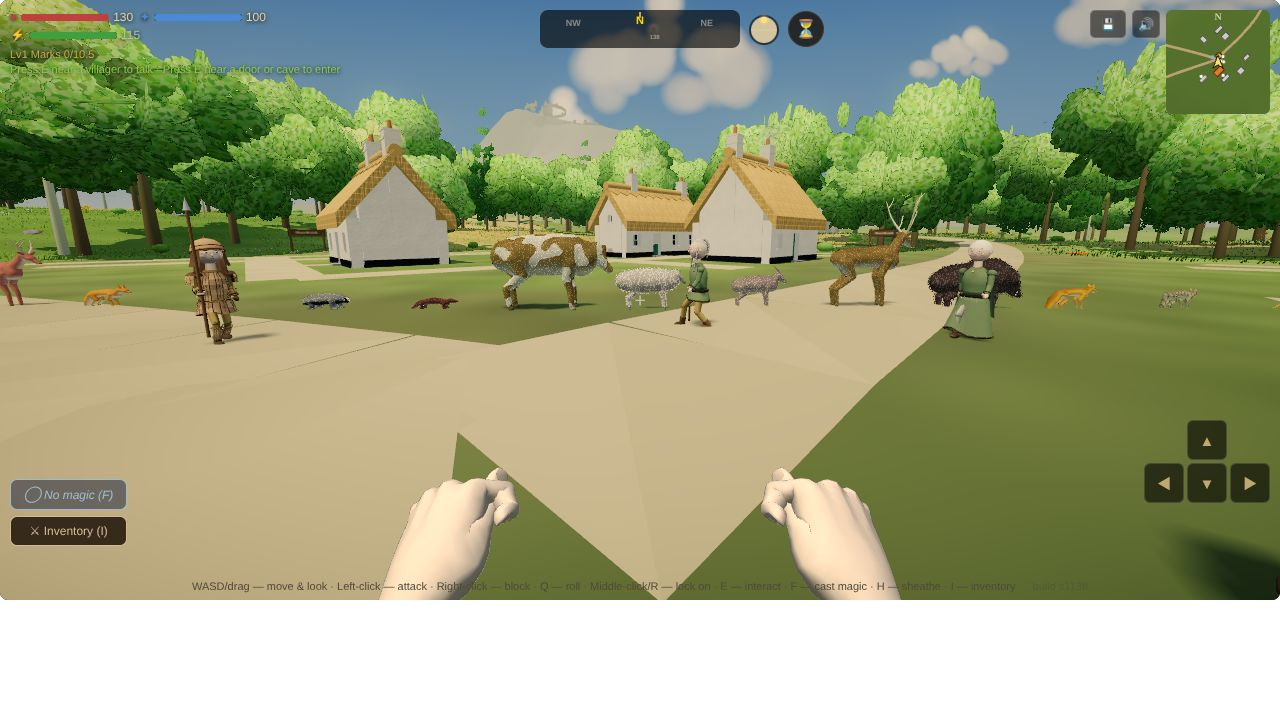
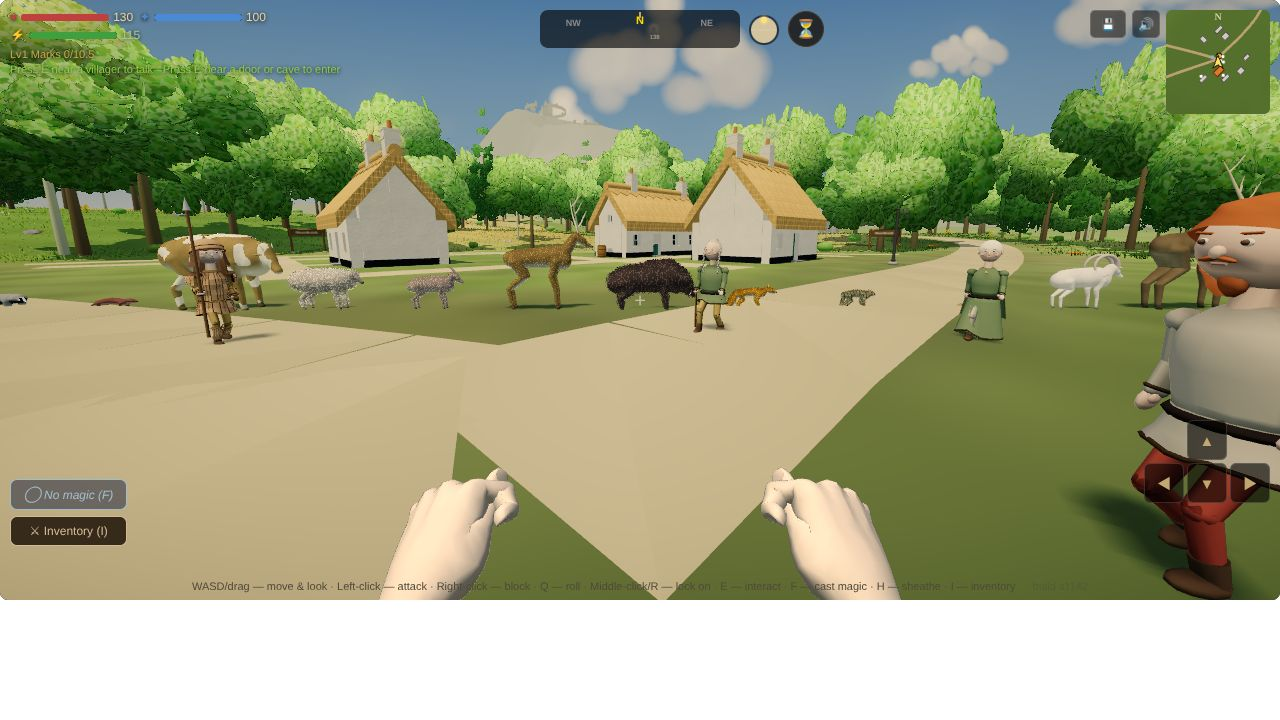
Bodies: Session 1739 — the Mark's own on four legs have bodies in the game
Icehorn, Ironpine Elk, Craghorn Ram, Stormlynx, Glacial Marmot and Snowleap Hare: wild
WOLF_KINDS dressed in the kit's MARK plans at their own hips. f4animals (19) and inspector
green; catalogue +6 entries.

Claude-Session: https://claude.ai/code/session_019eFMMoLi6YaA85dpmn3a9F

diff --git a/js/34-creatures.js b/js/34-creatures.js
@@ -42,6 +42,14 @@ const WOLF_KINDS={
   'Redspine Fox':{coat:0xa84d1a,saddle:0x5c2a10,belly:0xeee4d0,eye:0x2a1a08,ruff:.85,ears:1.2,muzzle:1.1,lean:.8,bulk:.92,neck:.1,world:.9,wild:true},
   'Hollowcat': {coat:0x806b52,saddle:0x4e4030,belly:0xd0c4ac,eye:0x9a8a20,ruff:.6,ears:1.1,muzzle:.6,lean:.85,bulk:.9,neck:.06,world:.81,wild:true},
   'Greenward Stoat':{coat:0x805733,saddle:0x5c3c22,belly:0xece2c8,eye:0x0f0a08,ruff:.5,ears:.6,muzzle:.8,lean:.75,bulk:.85,neck:.05,world:.165,wild:true},
+  // Session 1739 — the Mark's own on four legs (L3, OG-031; the kit's MARK since Session 847), wild: the Icehorn, the Ironpine Elk and the
+  // Craghorn Ram on the deer's long legs, the Stormlynx, the Glacial Marmot and the Snowleap Hare on the wolf's
+  'Icehorn':   {coat:0xdbd6cc,saddle:0xbdb8ad,belly:0xe6e3db,eye:0xbf9933,horse:true,legK:1.8,legs:{fore:{root:[-.03,.03],a:[-.22,-.04],b:[-.22,.02],c:[-.23,.01]},hind:{root:[-.02,-.02],a:[-.2,.08],b:[-.2,-.1],c:[-.26,.01]}},hipY:.70,bulk:.9,eyePos:[.046,.02,.03],world:1.0,wild:true},
+  'Ironpine Elk':{coat:0x4d3826,saddle:0x332417,belly:0x806b52,eye:0x0f0a08,horse:true,legK:1.8,legs:{fore:{root:[-.03,.03],a:[-.22,-.04],b:[-.22,.02],c:[-.23,.01]},hind:{root:[-.02,-.02],a:[-.2,.08],b:[-.2,-.1],c:[-.26,.01]}},hipY:.70,bulk:1.0,eyePos:[.048,.02,.03],world:2.08,wild:true},
+  'Craghorn Ram':{coat:0x857057,saddle:0x66543d,belly:0xd6ccb8,eye:0x997f33,horse:true,legK:1.8,legs:{fore:{root:[-.03,.03],a:[-.22,-.04],b:[-.22,.02],c:[-.23,.01]},hind:{root:[-.02,-.02],a:[-.2,.08],b:[-.2,-.1],c:[-.26,.01]}},hipY:.70,bulk:1.1,eyePos:[.046,.02,.03],world:.855,wild:true},
+  'Stormlynx': {coat:0xa8a399,saddle:0x6b6661,belly:0xe6e0d6,eye:0xbfcc40,ruff:.7,ears:1.3,muzzle:.6,lean:.85,bulk:.95,neck:.06,world:1.0,wild:true},
+  'Glacial Marmot':{coat:0x8f7a61,saddle:0x6b5945,belly:0xccb894,eye:0x0f0a08,ruff:.6,ears:.5,muzzle:.7,bulk:1.25,neck:.05,world:.32,wild:true},
+  'Snowleap Hare':{coat:0xedede8,saddle:0xd6d6d1,belly:0xfafaf7,eye:0x1f120a,ruff:.6,ears:1.4,muzzle:.8,lean:.85,bulk:.95,neck:.05,world:.66,wild:true},
   // the world's dragon (S177): the wolf's legs and gait under a long neck, a long tail, horns and two wings of its own
   'Dragon':    {coat:0x5a2a1a,saddle:0x3a160c,belly:0xa87a48,eye:0xff8020,dragon:true,bulk:1.28,neck:-.15,eyePos:[.05,.04,.104],world:4.5} // S524 — world: the scale every dragon is built at in play, and the inspector shows it so; S546 — 4.5, about twice a man's height (Michael's B on #153, was 2.88)
 };
@@ -919,7 +927,7 @@ const HC_KINDS={'Wolf':{plan:'wolf'},'Snow Wolf':{plan:'wolf',own:true},'Dire Wo
   'Golem':{plan:'golem',own:true,person:true,merge:true,ik:true,tall:true,glow:[.42,.69,1],glowR:.02},
   'Gargoyle':{plan:'gargoyle',own:true,person:true,merge:true,ik:true,glow:[1,.31,.13],glowR:.032,glowAt:{f:.8,up:.55,out:.5},garg:true},
   'Wraith':{plan:'wraith',own:true,person:true,legless:true,rest:HC_WRAITH_REST},'Phantom':{plan:'phantom',own:true,person:true,legless:true,rest:HC_WRAITH_REST},
-  'Deer':{plan:'deer',ik:true},'Hind':{plan:'deer',own:true,ik:true,bare:true},'Red Fox':{plan:'redfox'},'Brown Hare':{plan:'brownhare'},'Badger':{plan:'badger'},'Otter':{plan:'otter'},'Cow':{plan:'cow',ik:true},'Sheep':{plan:'sheep',ik:true},'Goat':{plan:'goat',ik:true},'Elderstag':{plan:'stag',ik:true},'Gatefen Boar':{plan:'gatefenboar'},'Redspine Fox':{plan:'redspinefox'},'Hollowcat':{plan:'hollowcat'},'Greenward Stoat':{plan:'stoat'},
+  'Deer':{plan:'deer',ik:true},'Hind':{plan:'deer',own:true,ik:true,bare:true},'Red Fox':{plan:'redfox'},'Brown Hare':{plan:'brownhare'},'Badger':{plan:'badger'},'Otter':{plan:'otter'},'Cow':{plan:'cow',ik:true},'Sheep':{plan:'sheep',ik:true},'Goat':{plan:'goat',ik:true},'Elderstag':{plan:'stag',ik:true},'Gatefen Boar':{plan:'gatefenboar'},'Redspine Fox':{plan:'redspinefox'},'Hollowcat':{plan:'hollowcat'},'Greenward Stoat':{plan:'stoat'},'Icehorn':{plan:'icehorn',ik:true},'Ironpine Elk':{plan:'ironpineelk',ik:true},'Craghorn Ram':{plan:'craghornram',ik:true},'Stormlynx':{plan:'stormlynx'},'Glacial Marmot':{plan:'glacialmarmot'},'Snowleap Hare':{plan:'snowhare'},
   'Shark':{plan:'reefshark',fish:true},'Whale':{plan:'stormwhale',fish:true},'Dolphin':{plan:'stormswift',fish:true},'Gull':{plan:'gull',fish:true,own:true,cell:.014},'Raven':{plan:'raven',fish:true,own:true,cell:.014},'Crow':{plan:'crow',fish:true,own:true,cell:.012},'Trout':{plan:'trout',fish:true,own:true,cell:.014},'River Pike':{plan:'riverpike',fish:true,own:true,cell:.02},'Mire Snake':{plan:'miresnake',fish:true,own:true,cell:.016},'Lantern Beetle':{plan:'lanternbeetle',fish:true,own:true,cell:.03},'Stonecrawler':{plan:'stonecrawler',fish:true,own:true,cell:.01},'Marsh Frog':{plan:'marshfrog',fish:true,own:true,cell:.012},'Hen':{plan:'hen',fish:true,own:true,cell:.012},'Great Heron':{plan:'heron',fish:true,own:true,cell:.016},'Crag Hawk':{plan:'craghawk',fish:true,own:true,cell:.014},'Capercaillie':{plan:'capercaillie',fish:true,own:true,cell:.016},'Slime':{plan:'slime',fish:true},'Fire Elemental':{plan:'fireelemental',fish:true}};
 // the driver's joints and the kit's bones they move, parents first (the kit's front legs hang on spine3, the hind on spine0)
 const HC_MAP=[['hips','spine0'],['spine','spine1'],['neck','neck0'],['head','head'],['jaw','jaw'],['tail1','tail0'],['tail2','tail1'],['tail3','tail2'],

diff --git a/docs/backlog.md b/docs/backlog.md
@@ -552,7 +552,7 @@ Michael marked all 96 images of the intake on the review page: 63 KEEP and 33 NO
 ### L3. Wildlife (the biggest gap: no peaceful land animals today)
 - **The common set first** (look builder, `34-creatures.js`; OG-084): wolf, red fox, brown hare, raven, crow, boar, deer, badger, otter, trout, built once and recoloured by island. Peaceful by default; one name per animal. **Prototyped as plans in the kit, Session 843** (bodies builder; `creatures.js` `COMMON`, `creatures-common.jpg`): all ten build and walk; owed: the game (after F4, behind `?look=new`), ~~the wolf~~ in it since Session 1202 (the Wolf, the Snow Wolf, the Dire Wolf; `f4wolves`), ~~the boar~~ since Session 1251 (the Boar foe's body, and the Mark's bear in the Cave Bear's brown as the Cave Bear's; `f4beasts`), ~~the Ash Hound~~ since Session 1274 (the kit's own `ashhound`: the wolf leaner and ash-grey, eyes lit, the embers a broken seam down the back; `f4beasts`, `f4wolves`), the peaceful ones still owed (they need a spawn, the systems builder's; **asked, Session 1687**, DECISION #984: where, how many, what they do on seeing you, and whether you can hunt them; A, present and huntable, recommended); Michael's A, present and huntable); ~~their bodies in the game~~ — done, Session 1704 (the Deer, the Red Fox, the Brown Hare, the Badger and the Otter: `buildAnimal(name,key)` in `34-creatures.js`, the kit's own plan each at its size in metres, keyed `wild:<key>`; `f4animals`; half the deer hinds by key, Session 1706), so the spawn is the systems builder's to call; ~~the spawn~~ — done, Session 1707 (`tickWildSpawn` in `88-world-ticks.js`: a chunk within 150 m rolls one group or none by its id and biome, off pads and roads; `tickWildOne` in `42-zone-enemies.js`: they graze, wander and run 40 m from your sight or sound; one blow kills, a deer 2 to 4 meat, a hare 1; `wildlife`); ~~the raven and the crow~~ — done, Sessions 1710 (their body, `buildBird`) and 1716 (in the spawn, carried from #1008 where it was first numbered 1711: crows on fields and shore, ravens on moor and tundra; startled they take off to 8–14 m, fly 60 m and land; aloft out of a blade's reach, an arrow must meet their height; `wildlife`); ~~the trout's body~~ — done, Session 1712 (`buildAnimal('Trout', key)`, no driver, a 120-triangle stand-in and the kit's trout near, 4,156 triangles, its beat by the water its group covers; `f4animals`), its spawn in the rivers the systems builder's (**asked, Session 1718**, DECISION #1014: how you take one; A, by hand while swimming as at sea or struck from the bank, recommended); ~~the island recolourings~~ — done, Session 865 (`COATS`, a genome's `island`); ~~the badger's face stripes~~ — done, Session 845 (a face mask in the kit). ~~Their feet on a slope (`character-builder.md`, B5)~~ — done, Session 1547 (`hcGround`: each toe on the ground under it by a two-bone reach, the body lowered when a downhill leg is straight; the bear 17 → 3 cm on a 0.20 slope; `f4beasts`).
 - **The Gatelands' fifteen** (OG-009): Elderstag, Gatefen Boar (roots up forgotten paths), Redspine Fox, otter, heron, badger, Hollowcat, stoat, Crag Hawk, Marsh Frog, River Pike, Stonecrawler, Mire Snake, Lantern Beetle (glows near ruins; an ingredient); a capercaillie in place of the turkey. **All fifteen are plans in the kit, Session 846** (bodies builder; `creatures.js` `GATELANDS`, `creatures-gatelands.jpg`); owed: the game, after F4: ~~the Elderstag, the Gatefen Boar, the Redspine Fox, the Hollowcat and the Greenward Stoat~~ have bodies in it since Session 1727 (renumbered from 1722; `buildAnimal`, wild, on the wolf's driver; `f4animals`; the spawn is the systems builder's), ~~the heron, the hawk and the capercaillie~~ since Session 1723 (the birds' path, their gaits by their plans'), ~~the pike~~ since Session 1724 (the trout's path), ~~the Stonecrawler and the frog~~ since Session 1731 (the land path, the kit's own trot and hop; so all fifteen have bodies), ~~the beetle~~ since Session 1730 (the snake's path, walking on the kit's six legs, 3,652 tris), ~~the snake~~ since Session 1728 (the trout's path on land, `SWIMMER`'s `land`: lying, slithering by its group, a wave's length a cycle; ~~the kit's own `strideOf` for slither a legged one's~~ — fixed at the kit, Session 1729: a wave's length a cycle); ~~the Hollowcat sitting with its forefeet together and its tail wrapped round~~ — done, Sessions 1126 and 1130 (`sitTuck`, `sitWrap`; the Sunspire Lynx too, the Stormlynx's bobtail not). ~~The heron's straight neck (the critic's question on S1723, an ostrich?)~~ — done, Session 1738: an S at rest, the kit's neck `bends`.
-- **The Mark's fifteen** (OG-031): Icehorn (horns that moan in the wind), Ironpine Elk, Stormlynx, Skyraven, Craghorn Ram, Glacial Marmot, Stormshrike, Snowleap Hare (coat by season), Riverjaw Salmon (leaps the falls), Tundra Grouse, Icecrab; Stonefang Wolf and Frostreach Bear as reskins of the Snow Wolf and Cave Bear. **All fifteen are plans in the kit, Session 847** (bodies builder; `creatures.js` `MARK`, `creatures-mark.jpg`); owed: the game, after F4.
+- **The Mark's fifteen** (OG-031): Icehorn (horns that moan in the wind), Ironpine Elk, Stormlynx, Skyraven, Craghorn Ram, Glacial Marmot, Stormshrike, Snowleap Hare (coat by season), Riverjaw Salmon (leaps the falls), Tundra Grouse, Icecrab; Stonefang Wolf and Frostreach Bear as reskins of the Snow Wolf and Cave Bear. **All fifteen are plans in the kit, Session 847** (bodies builder; `creatures.js` `MARK`, `creatures-mark.jpg`); owed: the game, after F4: ~~the Icehorn, the Ironpine Elk, the Craghorn Ram, the Stormlynx, the Glacial Marmot and the Snowleap Hare~~ have bodies in it since Session 1739 (`buildAnimal`, wild, on the wolf's driver; `f4animals`; `docs/prototypes/f4/f4-mark.jpg`; the spawn is the systems builder's); still owed: the Skyraven, the Stormshrike and the Tundra Grouse (the birds' path), the Riverjaw Salmon (the trout's), the Frostspine Lizard and the Icecrab (the land path); the bear and the wolf are the Cave Bear's and the Dire Wolf's; the Shatterback is the sea's.
 - **Aurenne's fifteen** (OG-030): Duneskimmer, Terrace Ram, Oasis Hare, Scarlet Ibis, Mirage Fox, Cliffswift, Amber Shellcrab (harvestable), Cypress Stalker, Glasswing Moth (an ingredient), Sunbeak Vulture, Spined Gekko; the Saltspine Monitor hostile; the Dunescorpion as the Sand Scorpion's skin; the Sand Wyrm as a set piece known by its funnels. **Fourteen are plans in the kit, Session 848** (bodies builder; `creatures.js` `AURENNE`, `creatures-aurenne.jpg`); owed: the game, after F4; ~~the Glasswing Moth~~ — done, Session 864 (a moth's glass wings in the kit), so all fifteen are plans.
 - **The strange beasts** (OG-040): the Crownstag, the Mossback (a tortoise carrying a garden), the Bellthroat (its call at dusk), the Lanternfox, the Thornrunner; the Shatterhorn, the Frostmane (a pack beast), the Glasswing, the Stonejaw, the Stormplume; the Redcrest, the Sunfan, the Mineprowler, the Sailshell. Wonder without menace, mostly peaceful. A few have six legs, and that is ordinary (Michael's 9 A). **All fourteen are plans in the kit, Session 853** (bodies builder; `creatures.js` `STRANGE`, `creatures-strange.jpg`): six from Sessions 773 to 775 and eight new (the Crownstag, the Lanternfox, the Thornrunner, the Frostmane, the Glasswing, the Stonejaw, the Redcrest, the Sunfan); owed: the game, after F4.
 - **The sea** (OG-016, OG-084, OG-031): tidecrab, moray, rays, lantern jelly, flying fish, squid, seals, dolphins, octopus, turtles; the Shatterback and the maw turtle as landmarks mistaken for rock; the gate eel and the Gate Leviathan as a sea gate's antibodies (the Mouth, the Vault of the Tide), seams glowing. **Seventeen are plans in the kit, Session 854** (bodies builder; `creatures.js` `SEA`, `creatures-sea.jpg`): the reef moray, the starweed and sailfin rays, the lantern jelly, the coastal tuna, the skyskimmer, the Stormswift (a dolphin), the drifter squid, the reef shark (~~a shark of its own, not the salmon recoloured~~ — done, Session 1528: the game's shark, Michael's A on S230, as the brief; `creatures-reefshark*.jpg`; ~~the gill bands' chequer~~ — done, Session 1530 (slits as ribbons on the grown skin, `gillSlits`); ~~owed: the game's Shark wearing it~~ — done, Session 1529: on the new look, posed by the kit's swim gait at the old tail's beat, `hcFishRig`; `f4sharks`), the grey seal, the blackcurrent eel, the gate eel and the Gate Leviathan, beside the Tidecrab, the Storm Whale (~~the game's whales wearing it~~ — done, Session 1536: on the new look, `hcWhaleRig`, the fluke's beat at a quarter stroke a second; `f4sharks`; ~~the bow-wave dolphins as the Stormswift~~ — done, Session 1537, `hcDolphinRig`), the octopus and the Shatterback; owed: the game, after F4; ~~the kelpstrider~~ — done, Session 863 (leafy fronds in the kit); ~~the pierwinkle~~ — done, Session 862 (a coiled shell in the kit); ~~the stonefish, the abyssal angler and the crimson leviathan~~ — done, Session 856; ~~turtles (a sea turtle and the maw turtle need flippers)~~ — done, Session 861 (flippers in the kit: flattened arms that stroke). ~~The ports' gulls on the kit~~ — done, Session 1595 (a `gull` plan, the raven's flier in a herring gull's colours, `SHORE`; on the new look `spawnGulls`' four wear it, `hcGullRig`, 4,252 triangles each at the game's cell; `f4sharks`, `docs/prototypes/f4/f4-gull.jpg`, `creatures-gull*.jpg`). ~~The shallows' fish schools on the kit~~ — done, Session 1599 (a `herring` plan in `SHORE`, the salmon's body slimmer and silver under a blue-green back, `saddleUp` in the kit; on the new look every school within 35 m of the eye draws it baked once and instanced, its tail swung in the shader, `hcSchools`; the old cones past it; `f4sharks`, `docs/prototypes/f4/f4-herring.jpg`, `creatures-herring.jpg`).

diff --git a/docs/devlog/1739.md b/docs/devlog/1739.md
@@ -1,0 +1,40 @@
+## v80 — Session 1739 — the Mark's own on four legs: the Icehorn, the Ironpine Elk, the Craghorn Ram, the Stormlynx, the Glacial Marmot, the Snowleap Hare
+The bodies builder's run of 2 Nov, its second item. All fifteen Gatelands animals got bodies in the game in Sessions 1722 to 1731. The
+creature kit's next sheet is the Mark's fifteen (L3, OG-031; plans since Session 847). Six of them stand on four legs that the wolf's driver
+can move, so this session gives those six bodies the way Session 1727 did the Gatelands' five.
+
+**The change** (`34-creatures.js`).
+- Six new `WOLF_KINDS`, all `wild`, so `buildAnimal` builds them and their kit bodies are keyed `wild:<key>`. Three stand on the deer's long legs:
+  the **Icehorn** (the kit's goat at 1.15, white with curled horns), the **Ironpine Elk** (the stag at 1.22, dark) and the **Craghorn Ram**.
+  Three stand on the wolf's legs: the **Stormlynx** (the Hollowcat at 1.4), the **Glacial Marmot** and the **Snowleap Hare** (white). The
+  driver's coats are the plans' palettes, and the driver is seen only past the kit's last level. `world` stands each at the kit's own hips:
+  0.69, 1.44, 0.60, 0.40, 0.125 and 0.26 m.
+- Six `HC_KINDS` rows straight to the kit's plans (`icehorn`, `ironpineelk`, `craghornram`, `stormlynx`, `glacialmarmot`, `snowhare`). The
+  three hoofed ones get the hoof bend (`ik`).
+- The inspector's *On the wolf kit* section gains the six. `docs/inspector-catalogue.json` was rewritten by `inspector` and now has 461
+  entries, up from 455, so the control room's Meshes tab is owed a republish (the producer's).
+
+The names are the catalogue's (OG-031). Which biome holds which, and how many, is up to the spawner: these are bodies only. The Snowleap
+Hare's coat by season is not built. It is white all year, as the kit's plan is.
+
+### Verified (headless Chromium)
+`f4animals` 1/1, all checks green, with nineteen animals now in its line. They were built within 300 ticks, with no failures, at 160 ms
+each. The six are:
+- Icehorn: 29 bones, 45,284 triangles.
+- Ironpine Elk: 30 bones, 52,916.
+- Craghorn Ram: 29 bones, 26,280.
+- Stormlynx: 31 bones, 23,404.
+- Glacial Marmot: 23 bones, 4,920.
+- Snowleap Hare: 26 bones, 19,692.
+
+Each one's hips sit 0 m from the driver's and within 4 cm of the kit's own: 0.687, 1.445, 0.595, 0.396, 0.125 and 0.259 m. A first run
+with sizes guessed from the plans' scales had the Stormlynx 5 cm high and the Icehorn 7 cm low, and `world` was refitted from it. Against a
+1.78 m man their tops stand at 0.52 (the Icehorn), 1.19 (the elk's antlers), 0.50, 0.35, 0.14 and 0.20 of his height. Walked at 1 m/s,
+the four larger ones trot and the marmot and the hare gallop. The bones move by 0.58 to 0.89, and the lowest toe stays within 6 mm of the
+ground. `inspector` 1/1. `parsecheck` clean. The picture is `docs/prototypes/f4/f4-mark.jpg`: the six on Dunmore's green. The marmot is too
+small to find at 7 m.
+
+### Needs eyes
+The Ironpine Elk is big, its antlers above a man's head. That is what OG-031 draws, but next to the Elderstag it may read as the same
+animal, only darker. The Stormlynx is the Hollowcat at 1.4 in grey. Its snowshoe paws and ear tufts are the plan's, and they may not show
+at play distance. Still owed of the Mark's fifteen: three birds, the salmon, the lizard and the crab, all on paths the game already has.
